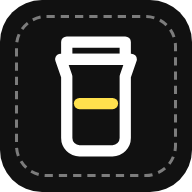
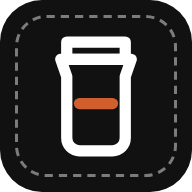
Orange accent instead of yellow
The highlight color is now #D15F2E with dark text on it, in both themes, including the active tab, the assistant button, selected chips, Low and the app icon. Contrast checks pass.

Changed region(s): [[0.375, 0.5, 0.625, 0.5938]]

diff --git a/src/styles/tokens.css b/src/styles/tokens.css
@@ -1,7 +1,7 @@
 /*
  * Design tokens: "Bon" (private DESIGN.md). The app looks like the receipts it
  * reads: paper and ink, dashed tear lines, money in a receipt typeface, a
- * highlighter for what matters and a red stamp for what's missing.
+ * orange highlighter for what matters and a red stamp for what's missing.
  *
  * Every color, font, size, radius and shadow lives here. Components use only
  * these custom properties (scripts/check-tokens test enforces it).
@@ -20,22 +20,24 @@
   --line: #bdbdb8;
   --primary: #111111;
   --on-primary: #ffffff;
-  --highlight: #ffe14d;
+  --highlight: #d15f2e;
   --on-highlight: #111111;
   --danger: #c8211a;
   --on-danger: #ffffff;
   --danger-soft: #fbe3e1;
   /* red text (errors, "over the target"): #d63b31 is only 3.7:1 on the dark surface, so dark text uses a lighter red */
   --danger-text: #c8211a;
+  /* the icon sits on the orange pill; the label under it sits on the tab bar */
   --tab-active-fg: #111111;
-  --tab-active-bg: #ffe14d;
+  --tab-active-bg: #d15f2e;
+  --tab-active-label: #111111;
   --fab-bg: #111111;
-  --fab-fg: #ffe14d;
+  --fab-fg: #d15f2e;
   --nav-bg: #ffffff;
   --overlay: rgba(17, 17, 17, 0.5);
   --focus: #111111;
   /* Undo on a toast: yellow on the dark toast; ink on the light toast of the dark theme (yellow would fail contrast there) */
-  --toast-action: #ffe14d;
+  --toast-action: #d15f2e;
   /* the fixed dark outline on yellow fills (selected chips, consumption bars, person B) */
   --outline-on-highlight: #111111;
   /* receipt photo placeholder and the dark veil over photo buttons */
@@ -152,13 +154,14 @@
     --danger: #d63b31;
     --danger-soft: #3a1e1c;
     --danger-text: #f06a60;
-    --tab-active-fg: #ffe14d;
-    --tab-active-bg: #3a3520;
-    --fab-bg: #ffe14d;
+    --tab-active-fg: #111111;
+    --tab-active-bg: #d15f2e;
+    --tab-active-label: #f2f2ee;
+    --fab-bg: #d15f2e;
     --fab-fg: #111111;
     --nav-bg: #181818;
     --overlay: rgba(0, 0, 0, 0.6);
-    --focus: #ffe14d;
+    --focus: #d15f2e;
     --toast-action: #111111;
   }
 }
@@ -175,13 +178,14 @@
   --danger: #d63b31;
   --danger-soft: #3a1e1c;
   --danger-text: #f06a60;
-  --tab-active-fg: #ffe14d;
-  --tab-active-bg: #3a3520;
-  --fab-bg: #ffe14d;
+  --tab-active-fg: #111111;
+  --tab-active-bg: #d15f2e;
+  --tab-active-label: #f2f2ee;
+  --fab-bg: #d15f2e;
   --fab-fg: #111111;
   --nav-bg: #181818;
   --overlay: rgba(0, 0, 0, 0.6);
-  --focus: #ffe14d;
+  --focus: #d15f2e;
   --toast-action: #111111;
   color-scheme: dark;
 }

diff --git a/src/styles/tokens.test.ts b/src/styles/tokens.test.ts
@@ -75,7 +75,8 @@ const PAIRS: [string, string, number][] = [
   ['--danger', '--surface', 3], // borders and fills
   ['--ink', '--danger-soft', 4.5],
   ['--tab-active-fg', '--tab-active-bg', 4.5],
-  ['--tab-active-fg', '--nav-bg', 4.5],
+  ['--tab-active-label', '--nav-bg', 4.5],
+  ['--highlight', '--surface', 3], // orange fills and chips against the paper
   ['--ink-muted', '--nav-bg', 4.5],
   ['--surface', '--ink', 4.5], // toast text
   ['--toast-action', '--ink', 4.5],

diff --git a/src/styles/base.css b/src/styles/base.css
@@ -174,9 +174,10 @@ img {
   transition: background var(--dur-fast);
 }
 .tab[aria-current='page'] {
-  color: var(--tab-active-fg);
+  color: var(--tab-active-label);
 }
 .tab[aria-current='page'] .pill {
+  color: var(--tab-active-fg);
   background: var(--tab-active-bg);
 }
 
